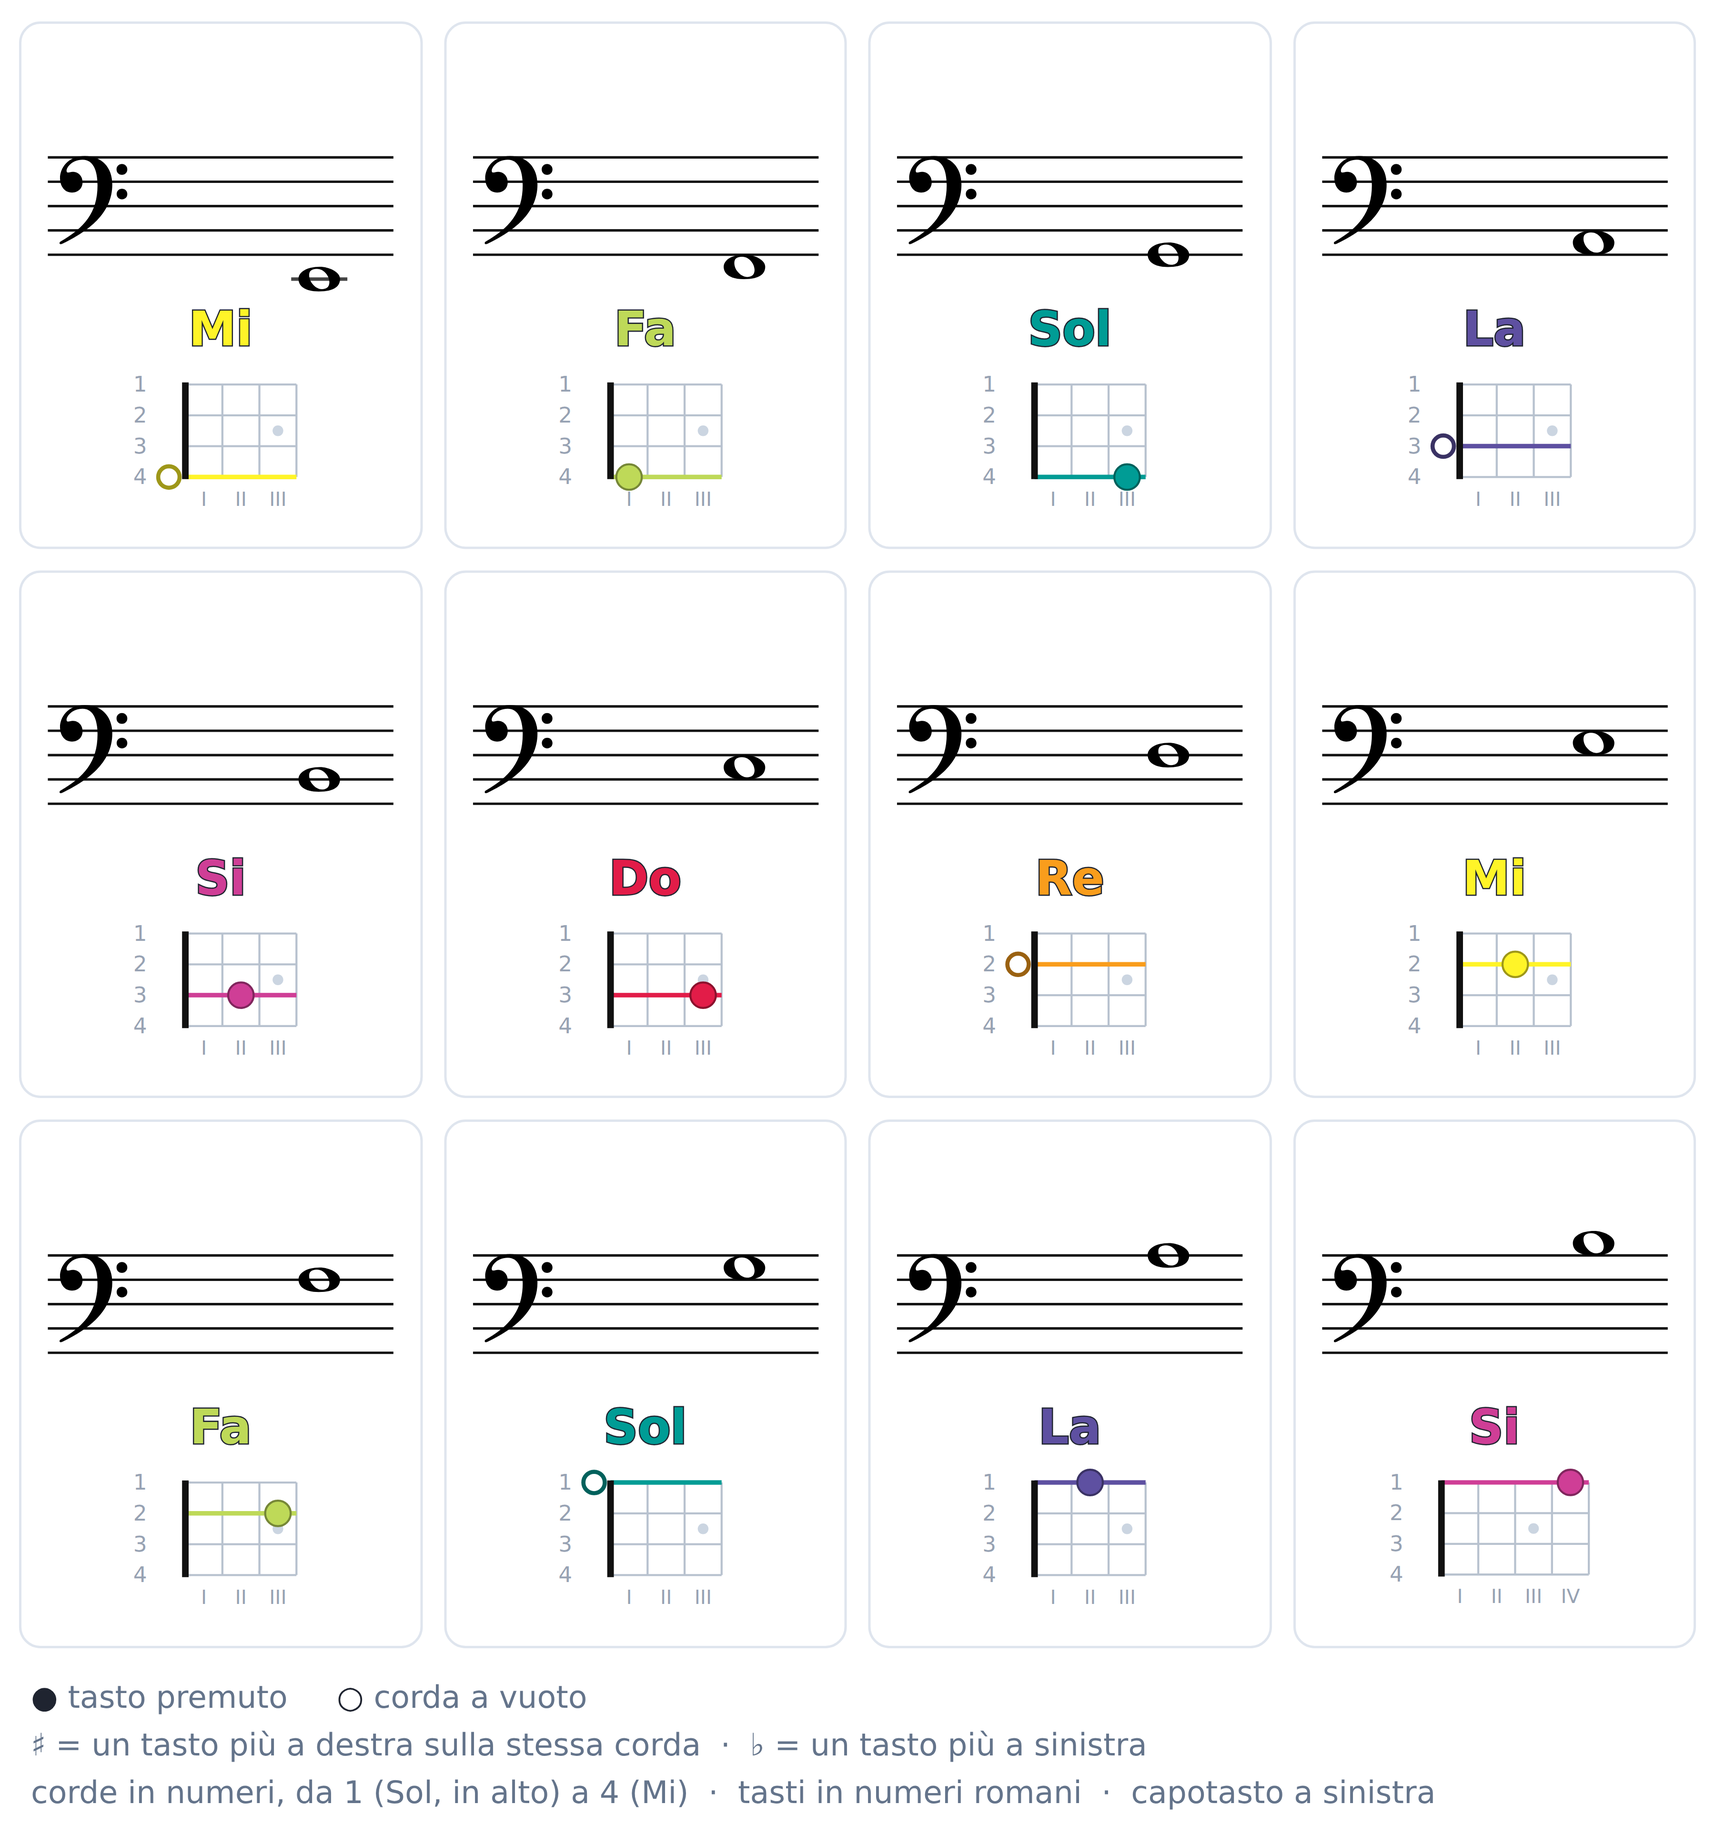
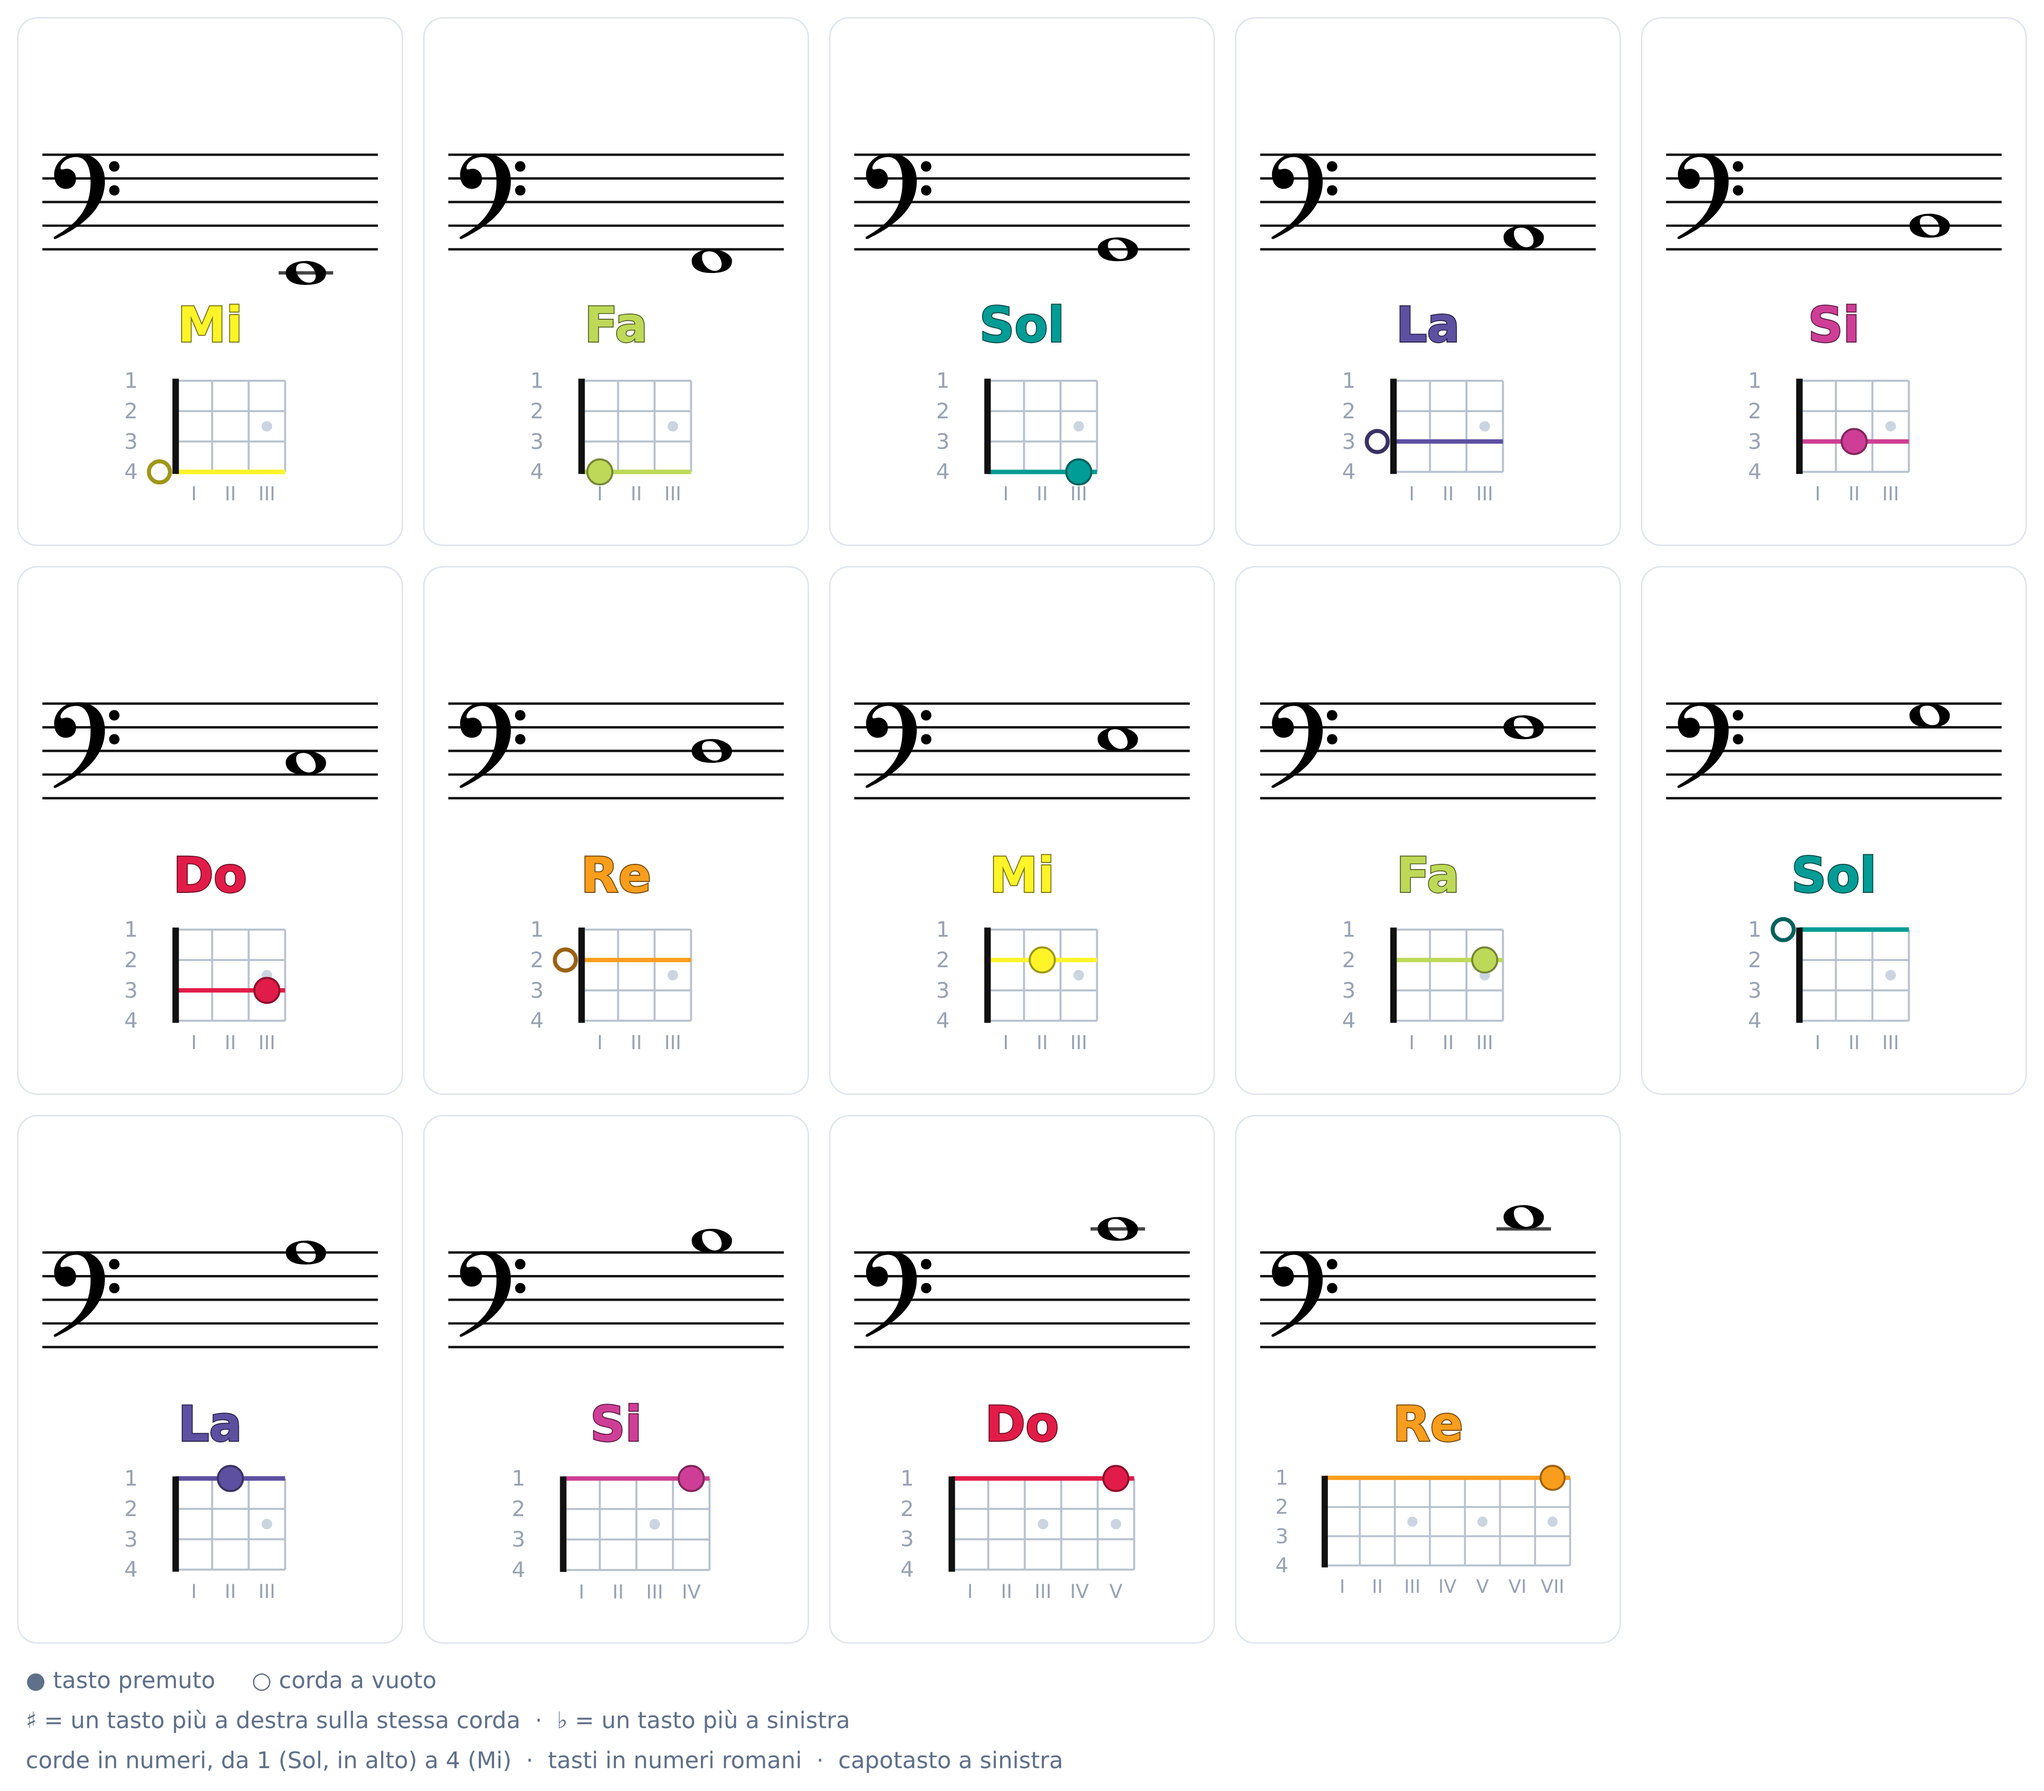
Schemi: nello schema delle note del basso anche Do e Re sulla prima corda
Lo schema va ora dal Mi della quarta corda al Re della prima (V e VII tasto),
su 5 colonne; il generatore delle immagini prepara anche questo schema.

Claude-Session: https://claude.ai/code/session_01NrLg9qZSy3EMrs51XA96ZN

diff --git a/updates.html b/updates.html
@@ -65,7 +65,8 @@
   <article>
     <h3><span class="tipo modificato">Modificato</span><a href="schemi-strumenti.html">Schemi degli strumenti</a></h3>
     <p>Negli schemi degli accordi di chitarra, ukulele e tastiera ci sono anche Fa minore, Si maggiore e Si minore (15 accordi in tutto).
-      Lo schema delle note della tastiera arriva ora fino al Mi del quarto spazio, con tutti i tasti neri.</p>
+      Lo schema delle note della tastiera arriva ora fino al Mi del quarto spazio, con tutti i tasti neri;
+      quello del basso elettrico ha anche Do e Re sulla prima corda.</p>
   </article>
   <article>
     <h3><span class="tipo modificato">Modificato</span><a href="memory-note.html">Memory – note</a> e <a href="memory-strumenti.html">Memory – strumenti</a></h3>

diff --git a/schemi-strumenti.html b/schemi-strumenti.html
@@ -519,7 +519,7 @@
       nome: "Basso elettrico",
       icona: '<svg class="ico" viewBox="0 0 48 48" aria-hidden="true"><use href="icone.svg#ic-basso"/></svg>',
       schemi: [
-        { title: "Schema note", icon: "📄", label: "Note", desc: "Ogni nota sul pentagramma, con il suo nome e la posizione sullo strumento.", url: "media/schemi/schema-note-basso.png" }
+        { title: "Schema note", icon: "📄", label: "Note", desc: "Ogni nota sul pentagramma, con il suo nome e la posizione sullo strumento.", url: "media/schemi/schema-note-basso.png?v=2026-10-15" }
       ]
     }
   ];

diff --git a/brani-propedeutici.html b/brani-propedeutici.html
@@ -595,7 +595,7 @@
   .strumenti-bar { -webkit-backdrop-filter: none; backdrop-filter: none; background: rgba(15, 23, 42, 0.97); }
 </style>
 <script src="vexflow.js"></script>
-<script src="motore-schemi.js?v=2026-10-15a"></script>
+<script src="motore-schemi.js?v=2026-10-15b"></script>
 <!-- per i motori di ricerca e la condivisione -->
 <link rel="canonical" href="https://musicascuole.it/brani-propedeutici.html">
 <meta property="og:type" content="website">

diff --git a/primi-brani-2.html b/primi-brani-2.html
@@ -597,7 +597,7 @@
   .strumenti-bar { -webkit-backdrop-filter: none; backdrop-filter: none; background: rgba(15, 23, 42, 0.97); }
 </style>
 <script src="vexflow.js"></script>
-<script src="motore-schemi.js?v=2026-10-15a"></script>
+<script src="motore-schemi.js?v=2026-10-15b"></script>
 <!-- per i motori di ricerca e la condivisione -->
 <link rel="canonical" href="https://musicascuole.it/primi-brani-2.html">
 <meta property="og:type" content="website">

diff --git a/primi-brani.html b/primi-brani.html
@@ -597,7 +597,7 @@
   .strumenti-bar { -webkit-backdrop-filter: none; backdrop-filter: none; background: rgba(15, 23, 42, 0.97); }
 </style>
 <script src="vexflow.js"></script>
-<script src="motore-schemi.js?v=2026-10-15a"></script>
+<script src="motore-schemi.js?v=2026-10-15b"></script>
 <!-- per i motori di ricerca e la condivisione -->
 <link rel="canonical" href="https://musicascuole.it/primi-brani.html">
 <meta property="og:type" content="website">

diff --git a/diabelli.html b/diabelli.html
@@ -597,7 +597,7 @@
   .strumenti-bar { -webkit-backdrop-filter: none; backdrop-filter: none; background: rgba(15, 23, 42, 0.97); }
 </style>
 <script src="vexflow.js"></script>
-<script src="motore-schemi.js?v=2026-10-15a"></script>
+<script src="motore-schemi.js?v=2026-10-15b"></script>
 <!-- per i motori di ricerca e la condivisione -->
 <link rel="canonical" href="https://musicascuole.it/diabelli.html">
 <meta property="og:type" content="website">

diff --git a/berens.html b/berens.html
@@ -597,7 +597,7 @@
   .strumenti-bar { -webkit-backdrop-filter: none; backdrop-filter: none; background: rgba(15, 23, 42, 0.97); }
 </style>
 <script src="vexflow.js"></script>
-<script src="motore-schemi.js?v=2026-10-15a"></script>
+<script src="motore-schemi.js?v=2026-10-15b"></script>
 <!-- per i motori di ricerca e la condivisione -->
 <link rel="canonical" href="https://musicascuole.it/berens.html">
 <meta property="og:type" content="website">

diff --git a/scale.html b/scale.html
@@ -598,7 +598,7 @@
   .strumenti-bar { -webkit-backdrop-filter: none; backdrop-filter: none; background: rgba(15, 23, 42, 0.97); }
 </style>
 <script src="vexflow.js"></script>
-<script src="motore-schemi.js?v=2026-10-15a"></script>
+<script src="motore-schemi.js?v=2026-10-15b"></script>
 <!-- per i motori di ricerca e la condivisione -->
 <link rel="canonical" href="https://musicascuole.it/scale.html">
 <meta property="og:type" content="website">

diff --git a/motore-schemi.js b/motore-schemi.js
@@ -48,7 +48,7 @@
     },
     basso: {
       e2: [4, 0], f2: [4, 1], g2: [4, 3], a2: [3, 0], bb2: [3, 1], b2: [3, 2], c3: [3, 3], d3: [2, 0], e3: [2, 2], f3: [2, 3],
-      g3: [1, 0], a3: [1, 2], b3: [1, 4]
+      g3: [1, 0], a3: [1, 2], b3: [1, 4], c4: [1, 5], d4: [1, 7]
     }
   };
   /* posizioni alternative (solo per gli schemi completi): sull'ukulele sol e la si possono suonare anche sulla corda 4 */

diff --git a/costruttore-di-battute.html b/costruttore-di-battute.html
@@ -23,7 +23,7 @@
 <link rel="apple-touch-icon" href="apple-touch-icon.png">
 <link rel="stylesheet" href="fonts/caratteri.css">
 <script src="vexflow.js"></script>
-<script src="motore-schemi.js?v=2026-10-15a"></script>
+<script src="motore-schemi.js?v=2026-10-15b"></script>
 <link rel="stylesheet" href="comune.css">
 <style>
   * { box-sizing: border-box; }

diff --git a/seleziona-note.html b/seleziona-note.html
@@ -23,7 +23,7 @@
 <link rel="stylesheet" href="fonts/caratteri.css">
 <link rel="stylesheet" href="comune.css">
 <script src="vexflow.js"></script>
-<script src="motore-schemi.js?v=2026-10-15a"></script>
+<script src="motore-schemi.js?v=2026-10-15b"></script>
 <script src="jspdf.js"></script>
 <style>
   * { box-sizing: border-box; }

diff --git a/solfeggio-cantato.html b/solfeggio-cantato.html
@@ -210,7 +210,7 @@
 <div id="areaStampa"></div>
 
 <script src="vexflow.js"></script>
-<script src="motore-schemi.js?v=2026-10-15a"></script>
+<script src="motore-schemi.js?v=2026-10-15b"></script>
 <script>
 (function () {
   "use strict";
